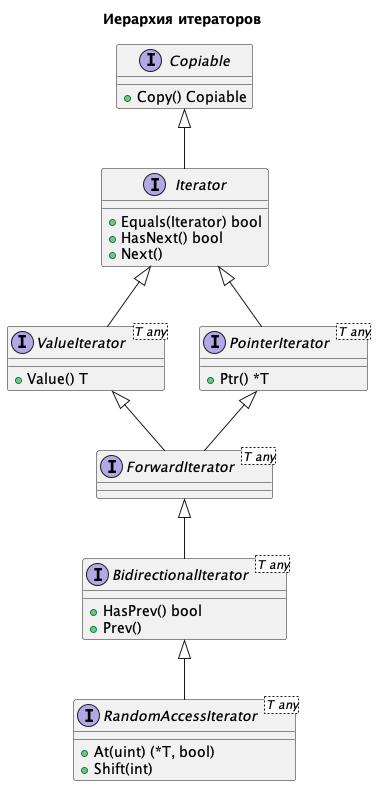
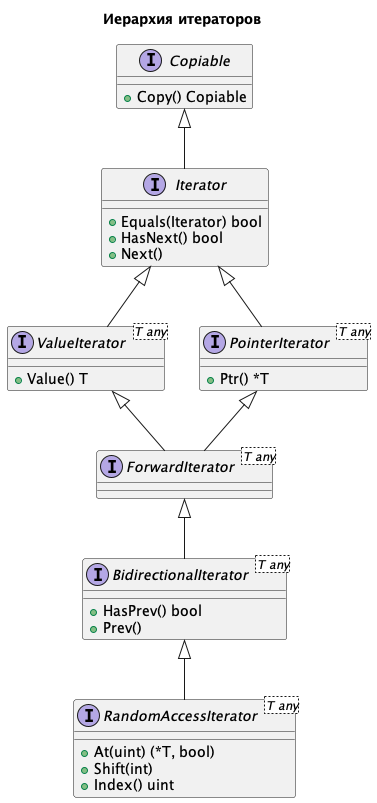
Реализовать Distance

diff --git a/algorithms/distance.go b/algorithms/distance.go
@@ -1,0 +1,32 @@
+package algorithms
+
+import (
+	"github.com/Delisa-sama/collections/interfaces"
+)
+
+// Distance вычисляет количество элементов в диапазоне [begin, end).
+// Если итераторы поддерживают случайный доступ (RandomAccessIterator), вычисление производится за константное время.
+// В противном случае используется линейный обход диапазона для подсчета количества элементов.
+//
+// Параметры:
+// - begin: итератор, указывающий на начало диапазона.
+// - end: итератор, указывающий на конец диапазона (не включительно).
+//
+// Возвращает:
+// - количество элементов в диапазоне [begin, end) в виде значения типа uint.
+func Distance[T any](begin, end interfaces.Iterator) uint {
+	b, bIsRand := begin.(interfaces.RandomAccessIterator[T])
+	e, eIsRand := end.(interfaces.RandomAccessIterator[T])
+	if bIsRand && eIsRand {
+		return e.Index() - b.Index()
+	}
+
+	var diff uint
+	for !begin.Equals(end) {
+		diff++
+		begin.Next()
+		end.Next()
+	}
+
+	return diff
+}

diff --git a/algorithms/distance_test.go b/algorithms/distance_test.go
@@ -1,0 +1,41 @@
+package algorithms
+
+import (
+	"testing"
+
+	"github.com/stretchr/testify/assert"
+
+	"github.com/Delisa-sama/collections/sequence/vector"
+)
+
+func TestDistanceWithRandomAccessIterator(t *testing.T) {
+	vec := vector.NewVector(1, 2, 3, 4, 5)
+
+	begin := vec.Begin()
+	end := vec.End()
+
+	// Проверка полного диапазона
+	result := Distance[int](begin, end)
+	expected := uint(5)
+	assert.Equal(t, expected, result, "Distance should return the number of elements in the range")
+
+	// Проверка диапазона с середины до конца
+	mid := vec.At(2)
+	result = Distance[int](mid, end)
+	expected = uint(3)
+	assert.Equal(t, expected, result, "Distance should return the number of elements from mid to end")
+
+	// Проверка диапазона от начала до середины
+	result = Distance[int](begin, mid)
+	expected = uint(2)
+	assert.Equal(t, expected, result, "Distance should return the number of elements from begin to mid")
+}
+
+func TestDistanceEmptyRange(t *testing.T) {
+	vec := vector.NewVector[int](1, 2, 3, 4, 5)
+
+	begin := vec.Begin()
+	result := Distance[int](begin, begin)
+	expected := uint(0)
+	assert.Equal(t, expected, result, "Distance for an empty range should be 0")
+}

diff --git a/interfaces/iterators.go b/interfaces/iterators.go
@@ -51,5 +51,8 @@ type RandomAccessIterator[T any] interface {
 	BidirectionalIterator[T]
 	// At проверяет, доступен ли элемент по заданному индексу.
 	At(index uint) (*T, bool)
+	// Shift сдвигает итератор, если offset > 0, то вперед, если < 0, то назад.
 	Shift(offset int)
+	// Index возвращает текущий индекс итератора.
+	Index() uint
 }

diff --git a/sequence/vector/iterator.go b/sequence/vector/iterator.go
@@ -110,3 +110,8 @@ func (it *iterator[T]) isEnd() bool {
 func (it *iterator[T]) Copy() copiable.Copiable {
 	return newIterator(it.s, it.current)
 }
+
+// Index возвращает текущий индекс итератора.
+func (it *iterator[T]) Index() uint {
+	return it.current
+}

diff --git a/README.md b/README.md
@@ -1228,6 +1228,15 @@ func Accumulate[T interfaces.Numeric](
 Вычисляет сумму всех элементов в диапазоне [begin, end) начиная с начального значения init.
 Функция проходит по всем элементам диапазона, добавляя каждый элемент к переменной init.
 
+### [Distance](algorithms/distance.go)
+```go
+func Distance[T any](begin, end interfaces.Iterator) uint
+```
+Вычисляет количество элементов в диапазоне [begin, end).
+Если итераторы поддерживают случайный доступ (RandomAccessIterator), вычисление производится за константное время.
+В противном случае используется линейный обход диапазона для подсчета количества элементов.
+
+
 ## Лицензия
 
 Этот проект лицензируется на условиях лицензии MIT. Подробности смотрите в файле LICENSE.
